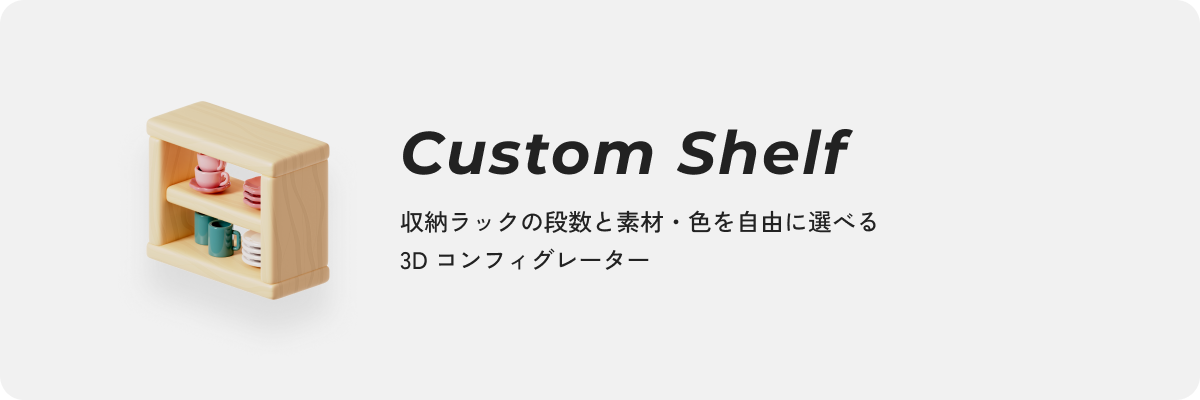
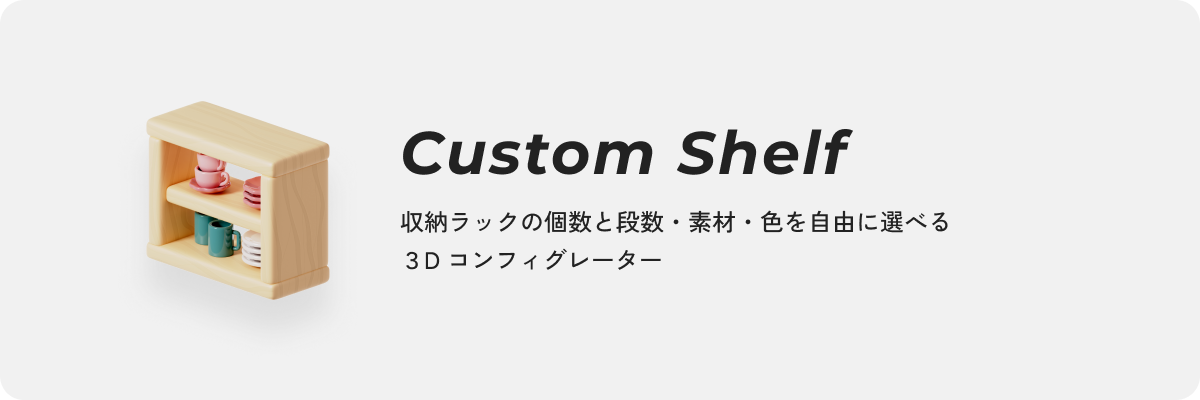
[Fix] README の微調整

Changed region(s): [[0.4317, 0.51, 0.8017, 0.6], [0.3392, 0.63, 0.555, 0.69]]

diff --git a/README.md b/README.md
@@ -37,10 +37,10 @@ Custom Shelf
 
 ## <a name="about">🤖 サイトの概要</a>
 
-収納ラックの段数と素材・色を自由に選べる 3D コンフィグレーターです。<br />
+収納ラックの個数と段数・素材・色を自由に選べる 3D コンフィグレーターです。<br />
 収納ラックのモデルは Blender で作成し、Three.js でオプションの
 カスタマイズができるようになっています。<br />
-また、段数の選択別に値段も増減するよう制作しました。<br />
+また、個数や段数の選択別に値段も増減するよう制作しました。<br />
 <br />
 制作時期：2024年5月頃
 
@@ -63,7 +63,7 @@ Custom Shelf
 | コンフィグレーター |
 | --- |
 | [![Image from Gyazo](https://i.gyazo.com/2834d3df586022050fbe17c65a1d4378.gif)](https://gyazo.com/2834d3df586022050fbe17c65a1d4378) |
-| ボタンのクリックで、3D モデルの収納ラックの段数と素材・色を変更できるようになっています。 |
+| ボタンのクリックで、3D モデルの収納ラックの個数と段数・素材・色を変更できるようになっています。 |
 
 <div>
   <br />
@@ -73,7 +73,7 @@ Custom Shelf
 
 | カテゴリー     | 使用技術                                                           |
 | -------------- | ------------------------------------------------------------------ |
-| Front-end      | React 18, Vite, Three.js, React Three Fiber, React Three Drei, Zustand, maath, r3f-perf |
+| Front-end      | React 18, Three.js, React Three Fiber, React Three Drei, r3f-perf, Zustand, maath, Vite |
 | Modeling       | Blender（収納ラックモデル制作） |
 | Infrastructure | Vercel（Hosting） |
 
@@ -83,11 +83,7 @@ Custom Shelf
 
 ## <a name="more">📙 あとがき</a>
 
-これまでのサイト制作は 2D だったため、3D の世界に入って<br />
-Blender で制作したモデルを Three.js で画面上で動くように<br />
-実装できたことがとても面白かったです。<br />
-<br />
-モデルは1ボックスのみ作成し、個数や段数の増減に応じてモデルが増えて表示されるよう制作を行いました。<br />
+モデルは1ボックスのみ作成し、個数や段数の選択に応じてモデルも増減して表示されるよう制作を行いました。<br />
 ボックスが増えた場合の位置調節の計算が難しく、若干のズレなどが生じる部分もありましたが、<br />
 最終的に違和感がない場所に設置することができました。<br />
 <br />
